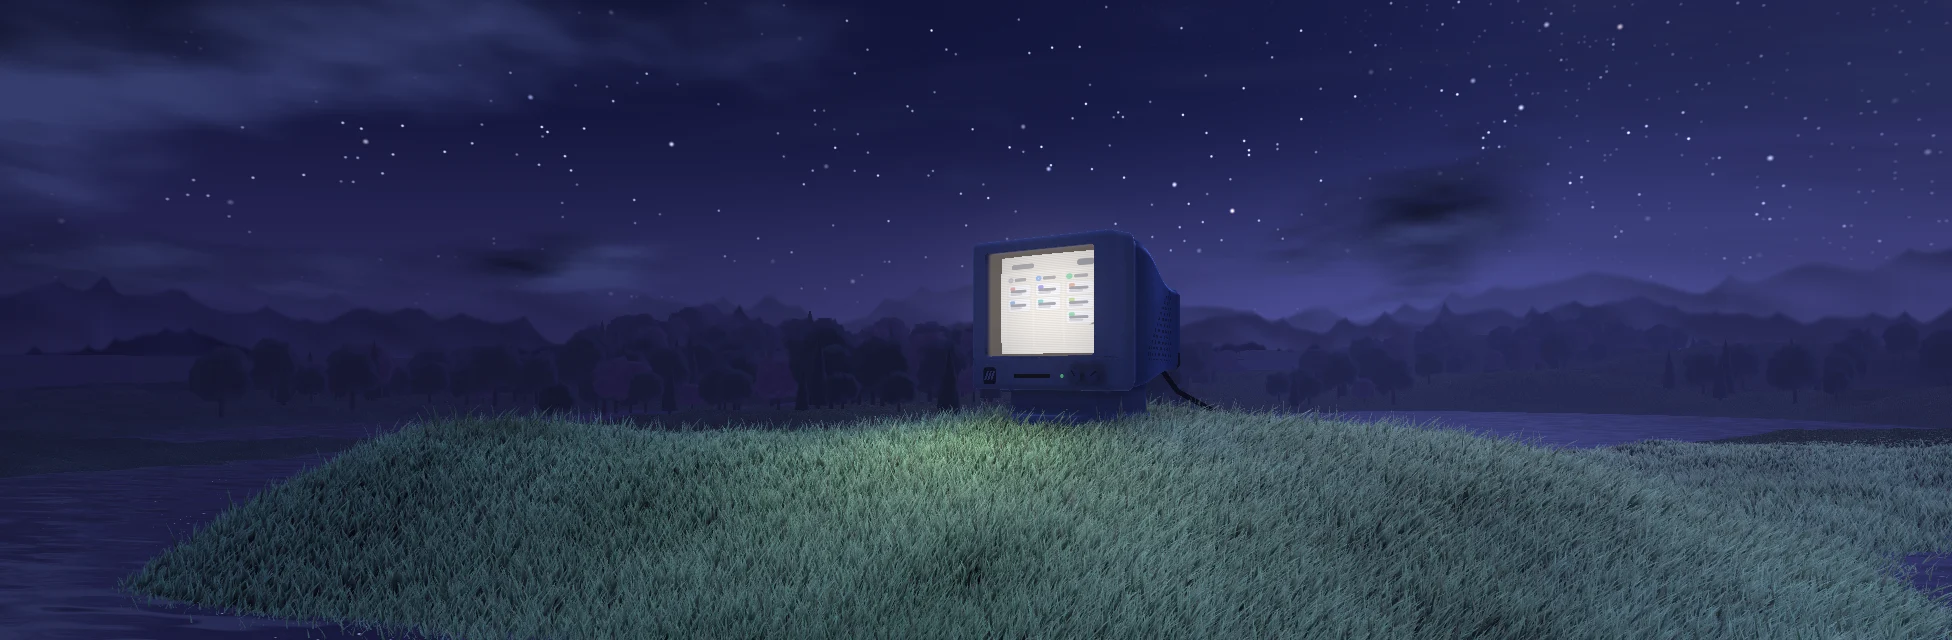
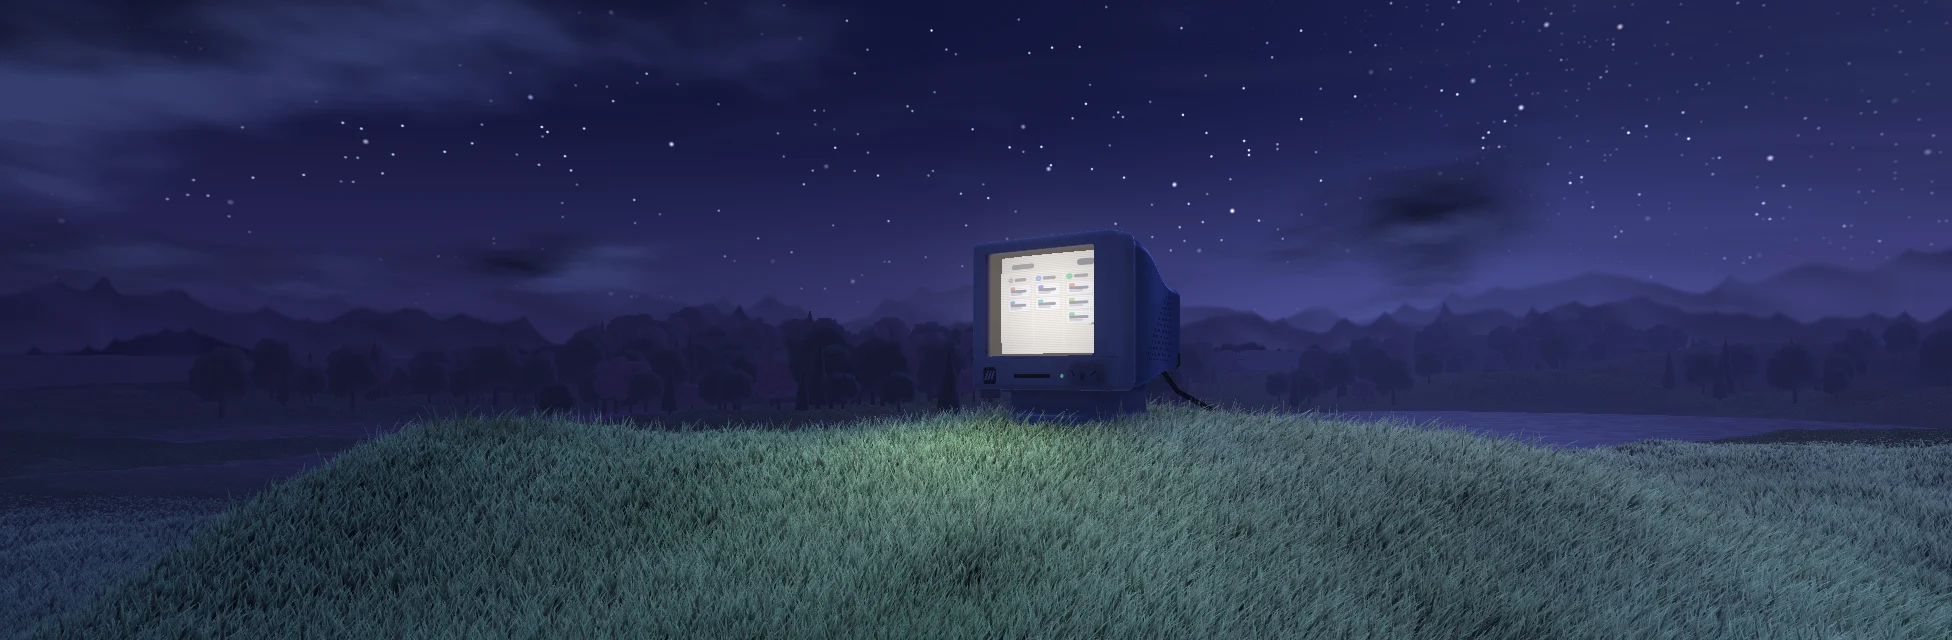
Acceso: sin agua en la esquina y con el cerezo en la imagen de espera
- El terreno queda bajo el nivel del lago también al pie de la colina, junto a
  la cámara: en ventanas anchas asomaba un charco abajo a la izquierda. Ahora
  solo hay agua de la colina hacia el fondo; lo demás es hierba.
- La imagen de espera pinta también el cerezo, en su sitio y moviéndose, con
  el mismo trozo de sombreador que la escena: ya no se ve un paisaje vacío
  con el ordenador solo.
- Imágenes de espera regeneradas.

Changed region(s): [[0.0, 0.8125, 0.2188, 1.0], [0.9688, 0.8438, 1.0, 0.9375]]

diff --git a/src/views/auth-scene.js b/src/views/auth-scene.js
@@ -543,7 +543,8 @@
   ].join('\n');
   /* El final de cada píxel, igual vaya todo junto (FRAG, PART 0) o por partes (COMP): el cerezo
      por delante, el halo de la pantalla, el revelado y la profundidad. */
-  const TAIL = [
+  /* El cerezo, por delante de lo ya pintado. Lo usa también la imagen de espera (WAIT). */
+  const TREE_PART = [
     '  float zTree = -1.;',
     /* ---------- El cerezo ---------- */
     /* Es un modelo 3D renderizado aparte a una imagen con transparencia (assets/img/sakura.webp), */
@@ -598,6 +599,8 @@
     '    }',
     '    }',
     '  }',
+  ];
+  const TAIL = TREE_PART.concat([
     /* Halo de la pantalla en el aire. */
     '  vec3 oc = ro - sc;',
     '  float bq = dot(oc, rd);',
@@ -608,8 +611,8 @@
     /* Profundidad de lo pintado, para que la hierba quede delante o detrás de cada cosa. */
     '  float zr = tFin > 0. ? tFin : 1e4;',
     '  if(zTree > 0.) zr = min(zr, zTree);',
-    '  gl_FragDepth = depth01(zr * dot(rd, fw));',
-  ];
+    '  gl_FragDepth = depth01(zr * dot(rd, fw));'
+  ]);
   const COMP = [
     /* ---------- La escena: lo que se pone en cada fotograma ---------- */
     /* Lee la imagen intermedia que pintan las partes (ver FRAG) y le pone el final: el cerezo, */
@@ -853,7 +856,10 @@
     /* El reflejo de las sierras, oscuro, cerca de la orilla del fondo. */
     '      wc = mix(wc, wc * vec3(.42, .36, .42), smoothstep(.10, .02, wr.y) * .7);',
     '      wc += pal(vec3(1.2, .78, .40), vec3(.90, .90, .84), vec3(.40, .46, .70)) * pow(max(dot(wr, normalize(vec3(L.x, .05, L.z))), 0.), 40.) * .35;',
-    '      float shore = smoothstep(0., .10, depth);',
+    /* Agua, solo de la colina hacia el fondo: el terreno también queda por debajo de su nivel */
+    /* al pie de la colina, pegado a la cámara, y ahí asomaba un charco en la esquina de abajo */
+    /* a la izquierda de las ventanas anchas; eso es hierba. */
+    '      float shore = smoothstep(0., .10, depth) * smoothstep(0., 6., pw.z);',
     '      wet = shore;',
     '      col = mix(col, wc, shore * .94);',
     /* Un filo claro en la orilla. */
@@ -1122,7 +1128,7 @@
     /* pantalla, así que la imagen se coloca con esa misma cuenta y coincide con lo que vendrá. */
     /* uPosterMap: en la imagen, dónde está el ordenador (x, y, en píxeles) y cuánto mide una */
     /* altura de pantalla. La imagen va sin el revelado final (post), que se le da aquí. */
-    /* Con LIVE, además, la pantalla del ordenador se pinta de verdad (el cuadro de acceso, lo */
+    /* Con LIVE, además, van el cerezo y la pantalla del ordenador, pintada de verdad (el cuadro de acceso, lo */
     /* que se escribe): la imagen marca con su transparencia qué píxeles son cristal, y dónde */
     /* toca cada rayo el cristal sale de una cuenta directa (SCREEN), la misma que usa la escena. */
     'uniform sampler2D uPoster;',
@@ -1135,13 +1141,14 @@
     '  vec4 px = texture(uPoster, clamp((uv * uPosterMap.z + uPosterMap.xy) / vec2(textureSize(uPoster, 0)), .001, .999));',
     '  vec3 col = px.rgb;',
     '#ifdef LIVE',
+    '  float base = uBase;',
+    '  vec3 ta = vec3(0., base + 1.02, 0.);',
+    '  vec3 ro = vec3(2.2, base + .62, -11.5);',
+    '  vec3 fw = normalize(ta - ro), rt = normalize(cross(vec3(0., 1., 0.), fw)), up = cross(fw, rt);',
+    '  vec3 rd = normalize(fw * 1.5 + uv.x * rt + uv.y * up);',
+    '  vec3 L = sunDir();',
     '  if(px.a < .75){',
-    '    float base = uBase;',
-    '    vec3 ta = vec3(0., base + 1.02, 0.);',
-    '    vec3 ro = vec3(2.2, base + .62, -11.5);',
-    '    vec3 fw = normalize(ta - ro), rt = normalize(cross(vec3(0., 1., 0.), fw)), up = cross(fw, rt);',
-    '    vec3 rd = normalize(fw * 1.5 + uv.x * rt + uv.y * up);',
-    '    col = screenColor(ro, rd, base, sunDir());',
+    '    col = screenColor(ro, rd, base, L);',
     /* El halo de la pantalla en el aire. */
     '    vec3 sc = vec3(0., 1.16, -.66) * CS; sc.xz = rot(-YAW) * sc.xz; sc.y += base;',
     '    vec3 oc = ro - sc;',
@@ -1149,11 +1156,19 @@
     '    float dq = length(oc + rd * max(-bq, 0.));',
     '    col += screenLight() * .06 * exp(-dq * dq * 1.5) * mix(.5, 1.5, uNight) * step(0., -bq);',
     '  }',
+    /* El cerezo, igual que en la escena y en su sitio (que depende de la ventana: por eso no */
+    /* va en la imagen). Aquí no se sabe qué terreno hay delante, así que nada lo tapa. */
+    '  setupTree();',
+    '  float treeSc = TREE_SC * uTreeS;',
+    '  vec3 treeB = vec3(gTree.x, TREE_H + .22 * treeSc, gTree.y);',
+    '  vec3 fogCol = fogColor(rd, L);',
+    '  float tGround = -1.;'
+  ].concat(TREE_PART, [
     '#endif',
     /* uFade: cuánto se ve, para fundirla con la escena de verdad cuando llega. */
     '  fragColor = vec4(post(col, gl_FragCoord.xy), 1.) * uFade;',
     '}'
-  ].join('\n');
+  ]).join('\n');
   const GRASS_BASE = [
     /* ---------- La hierba, paso previo: lo que no cambia de cada brizna ---------- */
     /* Dónde está su raíz, cuánto mide, la sombra fija que le cae (la del terreno y la del */
@@ -1835,7 +1850,7 @@
        para que acaben los primeros: la imagen sola, que es casi inmediato, y la imagen con la
        pantalla del ordenador en vivo. Si no se puede compilar en segundo plano no hay espera
        que cubrir. */
-    const holds = parallel ? [prepare(VERT, HEAD + '#define LIVE\n' + COMMON + '\n' + SCREEN + '\n' + WAIT), prepare(VERT, HEAD + COMMON + '\n' + WAIT)] : [];
+    const holds = parallel ? [prepare(VERT, HEAD + '#define LIVE\n' + COMMON + '\n' + SCREEN + '\n' + TREE_FN + '\n' + WAIT), prepare(VERT, HEAD + COMMON + '\n' + WAIT)] : [];
     const held = [null, null];
     /* Por orden: hierba (dos pasos), arbolado, lo de delante, lo que no cambia, lo fijo de la
        hierba y, al final, la
@@ -2419,6 +2434,10 @@
       gl.uniform1i(p.U.uText, 1);
       gl.uniform1f(p.U.uTextW, textW);
       gl.activeTexture(gl.TEXTURE0);
+      gl.bindTexture(gl.TEXTURE_2D, treeTex);
+      gl.uniform1i(p.U.uTree, 0);
+      gl.uniform1f(p.U.uTreeOn, treeFade);
+      gl.uniform1f(p.U.uSharp, LEVELS[level].sharp);
       gl.bindVertexArray(fullVao);
       gl.drawArrays(gl.TRIANGLES, 0, 3);
       gl.disable(gl.BLEND);
@@ -2582,6 +2601,7 @@
         if(posterOk && kit.hold() && now - last >= 1000 / 30 - 2){
           last = now;
           advance(now);
+          treeFade = treeReady ? ease(treeFade, 1, 2.6) : 0;
           if(!shown){ shown = true; canvas.classList.add('is-on'); }
           drawPoster(1);
         }

diff --git a/CONTEXT.md b/CONTEXT.md
@@ -331,6 +331,7 @@ Encima de todo va el selector de **proyectos**: cada proyecto es un tablero inde
   - **Tercera vuelta de rendimiento (oct-2026, misma rama; el dueño: «todavía puedes optimizarlo mucho más para que cargue antes y sea muchísimo más fluido»).** Medido en el portátil **con batería** (la mitad de rápido que enchufado), antes y después en las mismas condiciones: calidad máxima a 1920×1080, de **93 ms a ~45 ms** por fotograma; el escalón 3, de **21 ms a ~12 ms**; compilación en frío de todos los programas, de **7,3 s a 3,9 s**. Cuatro cambios. **1) La escena ya no se repinta entera en cada fotograma.** Las partes (`FRAG` con `PART` 1 cielo, 2 suelo, 3 carcasa del ordenador, más `GLASS`, la pantalla) pintan en una **imagen intermedia** (`sceneTex`, RGBA16F, unidad 5; en la transparencia va cuánto lago hay en el píxel) **sin cerezo, halo ni revelado**; eso lo pone `COMP` en cada fotograma, que es barato. La carcasa y la pantalla se pintan siempre (son pocos píxeles); **el cielo y el suelo, por turnos, uno en cada fotograma** (`turn`), salvo que haya que rehacerlo todo (cambio de tamaño, movimiento reducido, `poster()`). El final de cada píxel (`TAIL`: cerezo, halo, `post`, profundidad) y la función del cerezo (`TREE_FN`) son trozos compartidos entre `COMP` y el programa único de reserva (`PART 0`, sin `CACHE`). **2) La pantalla del ordenador va en su propio programa** (`GLASS`, con `SCREEN`: la misma cuenta directa que usa la imagen de espera, así que el relevo es idéntico); qué píxeles son cristal lo calcula `BAKE` y va en el segundo canal de `uShade` (ahora RG16F). El tablero era lo que más tardaba en compilarse. **3) La hierba guarda lo que no cambia de cada brizna** (`GRASS_BASE` → `baseBuf`: altura de la raíz, alto, sombra del terreno y del ordenador, contacto, dos ruidos fijos y la bruma); solo se rehace al cambiar el tamaño, al subir de escalón (briznas nuevas) o al moverse el sol; `GRASS_SIM` hace en cada fotograma solo el viento, el cursor y las luces. **4) 60 fotogramas por segundo si el equipo puede** (`rate`, `fluid`): `measure()` busca primero ir a 60 sin bajar del cuarto escalón (se nota más la fluidez que el detalle); si no da, a 30 en el mejor escalón que quepa. Si después va justo, primero baja de 60 a 30 y solo luego de escalón; mientras cambia el tema no se cuentan los fotogramas pesados. `state().cost` trae ahora `[escalón, fotogramas por segundo, ms]` por ronda y `quality(escalón, 60)` fuerza los 60. Con batería el portátil se queda en el escalón 3 a 30; **enchufado, y en el equipo del dueño, debería ir a 60: no está medido** (mirar `Workhub.views.authScene.state()`). Las imágenes de espera se regeneraron con el motor nuevo. **Ojo si se toca:** el orden de la lista de programas (`queue` en `boot`, `kit.linked` en `setup`) tiene que coincidir; y lo que pinte una parte no puede depender de lo que pintó otra en el mismo fotograma (van a destiempo).
   - **Cuarta vuelta (oct-2026, misma rama, PR #131; el dueño pidió «optimízalo aún más» y se fue a descansar: hecho sin supervisión, solo cambios que no alteran la imagen).** Medido en el portátil, enchufado, a 1920×1080: calidad máxima de **46,5 ms a ~26 ms** por fotograma, escalón 2 de 17,3 a ~12,5 y escalón 3 de 9,9 a ~7. Con eso **el portátil ya elige solo el escalón 3 a 60 fotogramas por segundo** a 1920×1080 y 1600×900 (antes, 30), y aguanta los 60 durante un cambio de tema. **1) La hierba se pinta de cerca a lejos** (`nearFirst()`): las briznas de cada escalón se ordenan por distancia antes de subirlas (`sown`), y la tarjeta descarta sin colorear lo que queda tapado. Era el mayor coste que quedaba: **la mitad del trabajo de la hierba era colorear briznas que luego no se veían** (de 21 a 11 ms en el escalón 0). La imagen es la misma: qué brizna tapa a cuál lo decide la profundidad, no el orden; y cada escalón sigue pintando las mismas briznas. Ojo al medir: `bench(n, 4)` (solo hierba) no vale para esto, porque sin la escena debajo la profundidad descarta casi todo; hay que restar `bench(n, 15) - bench(n, 11)`. **2) El cerezo** no calcula el viento fuera de su imagen (casi toda la pantalla). **3) Las luciérnagas** se llevan a la pantalla en el JavaScript (`flies2d()`, `uFly`/`uFlyB`) en vez de en cada píxel, y lo de delante no escribe donde no hay nada. **4) La carcasa del ordenador** se repinta en fotogramas alternos, con el cielo (la pantalla, siempre). **5)** `weight()` reajustado con las medidas nuevas. **Probado y descartado:** briznas de dos tramos para todas (no cambia el tiempo), quitar el ruido por píxel de la hierba (tampoco) y **quitar el suavizado de bordes (`antialias`): ahorra un 25 %, pero cambia el aspecto de la hierba y no se puede decidir después de crear el contexto; no se ha tocado** (si algún día se quiere, es el siguiente ahorro grande que queda). Lo que más pesa ahora a calidad máxima es `COMP` y la hierba, a partes iguales.
   - **La imagen de espera, desde el primer fotograma (oct-2026, misma rama; el dueño: «al principio un segundo sale sin nada, no sale ni la imagen»).** La imagen de fondo no se ponía hasta que cargaban los ~150 scripts de la página y Firebase decía si había sesión: hasta entonces, negro. Ahora la pone **`src/boot.js`**, que se ejecuta en el `<head>` antes de pintar nada: si todo apunta a que va a salir el acceso (hay Firebase, no consta sesión en `workhub_session` y no se entró como invitado) pone la clase **`auth-early`** en `<html>`, pide la imagen del tema que toque y la coloca en cuanto la página tiene la tarjeta. `auth-early` (regla en `auth.css`) **deja ver la pantalla de acceso aunque siga con `hidden`, pero sin la tarjeta ni lo demás** (`visibility:hidden`, así ocupan su sitio y se sabe dónde irá el ordenador); `AuthView` quita la clase en cuanto se sabe qué enseñar (`showSignIn`, `showVerify`, `showLoadError`, `showAppSkeleton`, `hide`). Las medidas de la imagen y la cuenta de dónde cae el ordenador **viven ahora en `boot.js` (`window.__authPoster`: `w`, `h`, `fx`, `fy`, `tree`, `focus()`, `paint()`)** y `auth-scene.js` las lee de ahí (`POSTER`, `layoutOf`): un solo sitio. La franja que la imagen no cubre por arriba en algunas ventanas se rellena con el color de su borde (`nightTop`, `duskTop`: **si se regeneran las imágenes hay que volver a medirlos**). Medido: la imagen queda puesta **antes del primer pintado** (a los 150–550 ms, con el primer pintado a los 300–700) y el formulario sale igual que antes (~0,65–0,9 s). **Probado y descartado:** arrancar también el motor 3D en ese momento; adelantaba la escena, pero **retrasaba el formulario medio segundo** (la compilación compite con la carga de la página), así que el motor sigue esperando a que la tarjeta se vea (`screen.hidden`, no `away()`). Si la tarjeta cambia de sitio al aparecer, la escena se recoloca (`relayout`). Caso raro a conocer: quien tenga sesión pero no la marca `workhub_session` verá un instante el fondo del acceso antes de la aplicación.
+  - **Agua en la esquina y cerezo en la espera (oct-2026, misma rama; el dueño: «abajo a la izquierda aparece como agua en vez de que sea todo hierba» y «el ordenador se muestra muy pequeño» en pantallas de 1080p).** **El agua:** el terreno queda por debajo del nivel del lago (`WATER_Y`) también al pie de la colina, pegado a la cámara, y en ventanas anchas (un monitor de 1080p con la barra del navegador, ~1920×940) asomaba un charco en la esquina de abajo a la izquierda; se notaba sobre todo en la imagen de espera, que no llevaba cerezo que lo tapara. Ahora **solo hay agua de la colina hacia el fondo** (`shore` se anula con `smoothstep(0., 6., pw.z)` en la parte del suelo de `FRAG`); lo demás es hierba. **No volver a dejar agua cerca de la cámara.** **El cerezo:** la imagen de espera se veía vacía, un paisaje ancho con el ordenador solo; ahora, en cuanto compila su programa con `LIVE`, **`WAIT` pinta también el cerezo**, en su sitio y moviéndose, con el mismo trozo de sombreador que la escena (`TREE_PART`, la primera mitad de `TAIL`). Ahí no se sabe qué terreno hay delante del tronco, así que el pie se ve entero hasta que llega la escena. Las imágenes se regeneraron. **Sin aclarar:** qué quería decir exactamente con «el ordenador muy pequeño»; en las capturas a 1920×1080 y 1920×940 el ordenador mide lo mismo en la espera y en la escena (~0,28 de la altura de la ventana). Se le ha pedido una captura.
   - **Cómo comprobarla.** Las capturas de siempre corren sin tarjeta gráfica (SwiftShader): compila y pinta, pero muy despacio, y **no muestra los fallos de movimiento**. Para eso hay que lanzar Edge con la GPU real (`--use-gl=angle --use-angle=d3d11`) y comparar los píxeles del lienzo entre fotogramas. **Lección: «no se mueve» se mide, no se deduce de una captura fija.**
   - **Mejoras de la escena (oct-2026, rama `claude/acceso-escena`, diez puntos que pidió el dueño).** 1) **Hierba de noche** apagada y fría (antes, verde encendido) y la luz de la pantalla sobre ella, más contenida. 2) **El ordenador es un 22 % mayor** (`CS` en `COMMON`: todo él está en sus propias medidas y las distancias de `computer()` se multiplican por `CS`) y en su tablero una tarea recorre las tres columnas. **Carcasa rediseñada a petición del dueño («hay partes que no están unidas»):** sigue las fotos de monitores de tubo que mandó de referencia: **marco frontal** claro y, detrás, **una carcasa azul que se estrecha hacia atrás** (una caja deformada; antes eran dos cajas con un corte de lado a lado, que las dejaba separadas), **rejilla de puntos en abanico** en los costados y **el pie pegado de arriba abajo**: un **zócalo macizo** que entra en la carcasa y baja hasta el suelo, con un plato redondo alrededor (un cuello fino entre dos piezas dejaba una rendija a los lados por la que se veía el fondo: **el pie no debe tener huecos que dejen ver a través**). El trazado del ordenador da 96 pasos y, si se acaban rozando una superficie, la da por tocada. La junta bajo la pantalla va grabada, los mandos llevan muesca y la insignia son tres barras limpias. El hueco de la pantalla tiene que llegar más hondo que el cristal (si quedan a ras, el borde de la imagen sale ondulado). **No volver a cortar la carcasa con una losa ni a hacerla con dos cajas: el escalón en sombra se lee como una separación.** 3) **La pantalla acompaña al formulario** (`authScene.signal()`, uniforme `uUI`): al escribir sale un cuadro de acceso con **el correo (o el nombre) letra a letra** (lo pidió el dueño; se pinta en un lienzo 2D aparte y se sube como textura, `uText`; si no cabe se ve el final) y **la contraseña como puntos: de ella solo se pasa cuántos caracteres hay, nunca cuáles**, una barra que va y viene mientras se espera, un golpe rojo si falla y, al entrar, una marca verde que ilumina la hierba; `AuthView.celebrate()` deja esa señal 850 ms **mientras se cargan los datos** (`AuthController.enter`), sin sumar espera si tardan más. 4) **Luciérnagas** más pequeñas y nítidas; solo dos pasan pegadas a la cámara. 5) **Cerezo más nítido** con una máscara de enfoque en el sombreador (`treeAt`); **no se ha vuelto a renderizar el modelo** (no hay Blender ni los guiones; sigue pendiente la licencia). 6) **Cielo**: las nubes pasan y se rehacen, las estrellas titilan, la bruma se desliza entre las sierras. 7) **Cambio de tema**: el paso de atardecer a noche dura lo mismo en cualquier equipo (avanza por tiempo, no por fotograma), y estrellas y luciérnagas salen cuando la noche ya está entrada. 8) **Momento del día:** el sombreador sabe pintar también amanecer y pleno día (`pal()`, `uDay`, `uDawn`), pero **el dueño prefirió el atardecer como modo claro**: claro = atardecer y oscuro = noche, siempre; los otros momentos solo se ven con `Workhub.views.authScene.hour(13)` en la consola. **No volver a ligarlo a la hora real sin que lo pida.** 9) **La hierba se aparta del cursor** (`uMouse`, solo con ratón; la cámara sigue fija). 10) **Rendimiento:** sin tarjeta gráfica (SwiftShader y similares) o con ahorro de datos se pinta **una sola imagen, pequeña, y se deja quieta**; los equipos con poco procesador o memoria empiezan un escalón por debajo; si ni en la calidad más baja llega, la escena se queda quieta (`frozen`). `authScene.state()`, `bench()` y `quality()` sirven para medir. Medido en el equipo del dueño (RTX 4070, 1920×1000, con `readPixels` para forzar a la tarjeta): **~25 ms por fotograma, igual que antes de los cambios (23–26 ms)**; en la calidad más baja, 8–10 ms. Sin tarjeta gráfica el formulario aparece en 1,5 s y responde. **Sigue sin medirse en un equipo modesto de verdad ni en un móvil.**
   - **Remates (oct-2026, misma rama).** El **logo es el básico en blanco y negro** en todas partes (lo pidió el dueño: «el color lo eligen los usuarios»): la tarjeta de acceso usa `.brand-mark` (fondo y barras con el acento elegido), `favicon.svg` son tres barras blancas y los PNG (`icon-192`, `icon-512`, `icon-maskable-512`, `favicon-32`, `apple-touch-icon`) se regeneran con `node scripts/make-icons.js`; **`og-image.png` sigue con el logo anterior**. El ordenador va algo a la derecha del centro del panel de cristal (`layout()`, 0,575). El cerezo entra poco a poco cuando llega su imagen (`treeFade`). **El botón de tema de esta pantalla no usa `themeSwitch`** (el cambio «en círculo» con View Transitions congela la página en una foto mientras dura y la escena se paraba, lo vio el dueño): con la escena en marcha se aplica el tema sin más, el cielo pasa solo de atardecer a noche y la tarjeta cambia de color con una transición (`.auth-screen.is-theming`). De noche la carcasa lleva luz de relleno y un filo frío para que no sea una silueta. El aviso «sin conexión con el acceso» (`showLoadError`) tiene el mismo aspecto que los pasos de correo.
